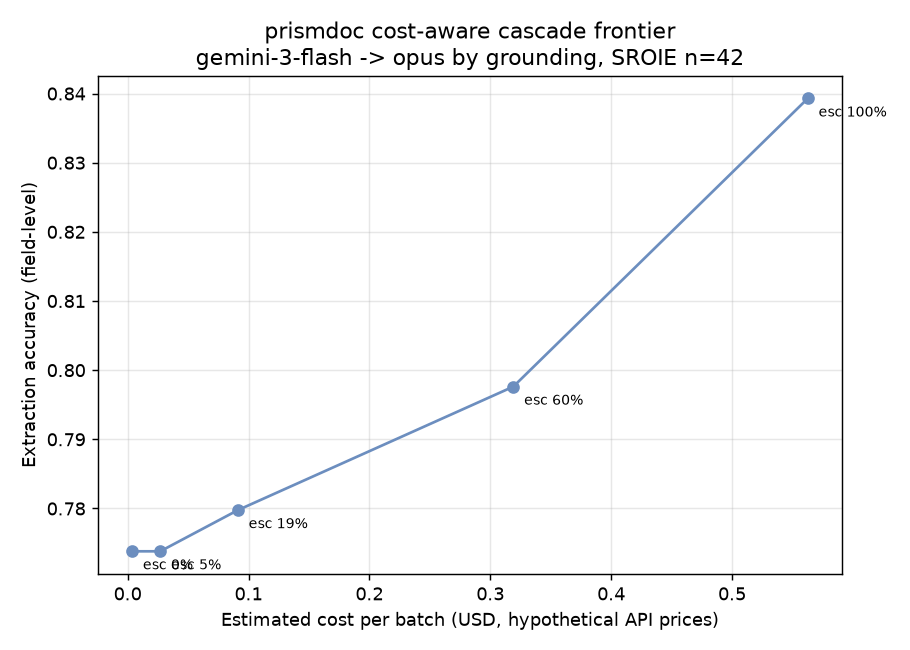
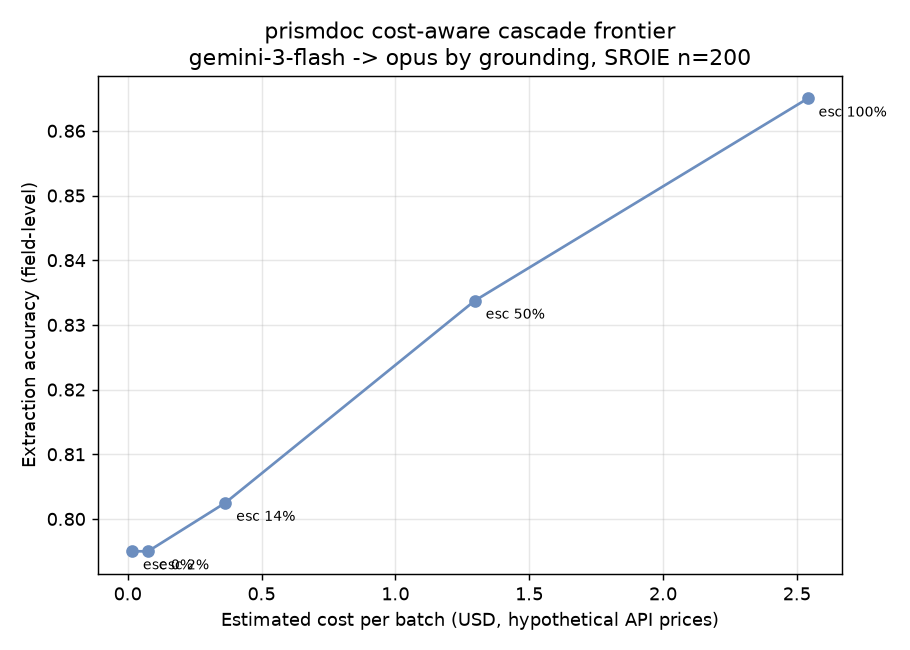
docs(bench): scale frontier to n=200 SROIE receipts
[TL] ran the cost-aware cascade frontier on 200 real receipts (concurrent CLI backends, resumable):
- cheap-only (gemini-3-flash) 79.5% at ~free; strong-only (opus) 86.5% at ~154x cost
- smooth monotone Pareto: 14% escalation -> 80.2%, 50% -> 83.4%, 100% -> 86.5%
- updated docs/img/frontier.png (n=200) + BENCHMARK.md table/numbers/caveats (n=200, +/-0.05)

diff --git a/docs/BENCHMARK.md b/docs/BENCHMARK.md
@@ -149,7 +149,7 @@ expensive model**. Here the cascade is `gemini-3-flash → claude-opus`, escalat
 cheap model's output is poorly **grounded** in the OCR text (a proxy for "the cheap answer is shaky").
 Both models were run once per receipt and the cascade simulated at several grounding thresholds.
 
-**n = 42 SROIE receipts.** Cost is **estimated** (hypothetical API prices — the CLI backends are
+**n = 200 SROIE receipts.** Cost is **estimated** (hypothetical API prices — the CLI backends are
 actually free via Claude Max / Cursor Pro): gemini-flash ≈ $0.10/$0.40 per 1M in/out,
 opus ≈ $15/$75 per 1M.
 
@@ -157,22 +157,22 @@ opus ≈ $15/$75 per 1M.
 
 | Escalation threshold | % escalated | accuracy | est. cost / batch |
 |----------------------|-------------|----------|-------------------|
-| 0.00 (cheap only)    | 0%          | 0.774    | $0.0037           |
-| 0.26                 | 5%          | 0.774    | $0.027            |
-| 0.51                 | 19%         | 0.780    | $0.091            |
-| 0.76                 | 60%         | 0.798    | $0.319            |
-| 1.01 (strong only)   | 100%        | **0.839**| $0.563            |
+| 0.00 (cheap only)    | 0%          | 0.795    | $0.017            |
+| 0.26                 | 2%          | 0.795    | $0.076            |
+| 0.51                 | 14%         | 0.802    | $0.365            |
+| 0.76                 | 50%         | 0.834    | $1.297            |
+| 1.01 (strong only)   | 100%        | **0.865**| $2.541            |
 
 **Reading the frontier:**
 
-- The cheap model alone (gemini-3-flash) already reaches **77.4%** at near-zero cost.
-- Sending **everything** to opus reaches **83.9%** — **+6.5 points** — but costs **~152×** more.
+- The cheap model alone (gemini-3-flash) already reaches **79.5%** at near-zero cost.
+- Sending **everything** to opus reaches **86.5%** — **+7 points** — but costs **~154×** more.
 - Grounding-based escalation is a real Pareto curve: accuracy rises monotonically as you escalate more.
-  Escalating just the **19%** lowest-grounding receipts buys most of the low-hanging gain; the last few
-  points cost the most. That gap is exactly the money the cost-aware cascade lets you *not* spend —
-  pick the threshold that fits your accuracy/cost budget instead of paying for the strong model on
-  every document.
+  Escalating just the **14%** lowest-grounding receipts buys the first easy gain; reaching the top costs
+  the most (50% escalation → 83.4% at $1.30; 100% → 86.5% at $2.54). That gap is exactly the money the
+  cost-aware cascade lets you *not* spend — pick the threshold that fits your accuracy/cost budget
+  instead of paying for the strong model on every document.
 
-**Caveats:** n = 42 (still preliminary, ±0.1); costs are estimated at reference API prices; grounding
+**Caveats:** n = 200 (preliminary, ±0.05); costs are estimated at reference API prices; grounding
 is a heuristic escalation signal (not calibrated). Reproduce with `prismdoc.eval.sweep` on a cascade
 config once a hosted model is wired.